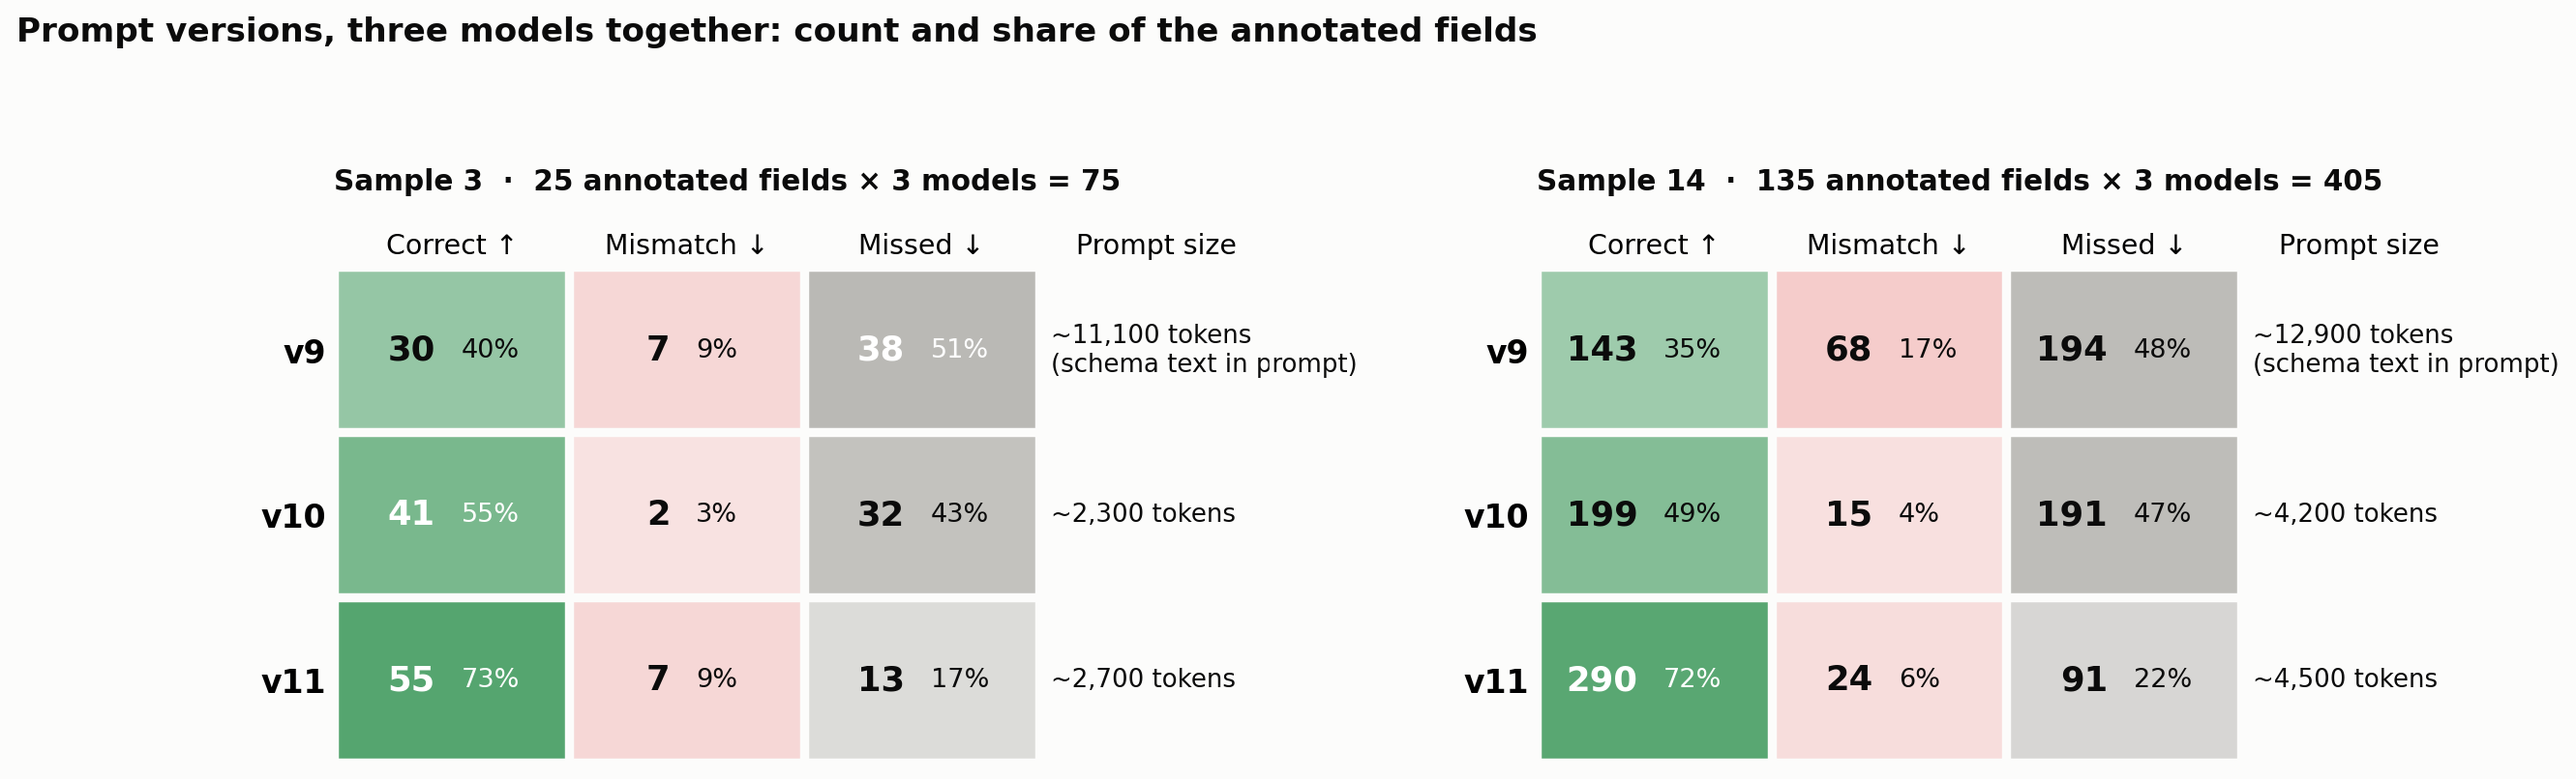
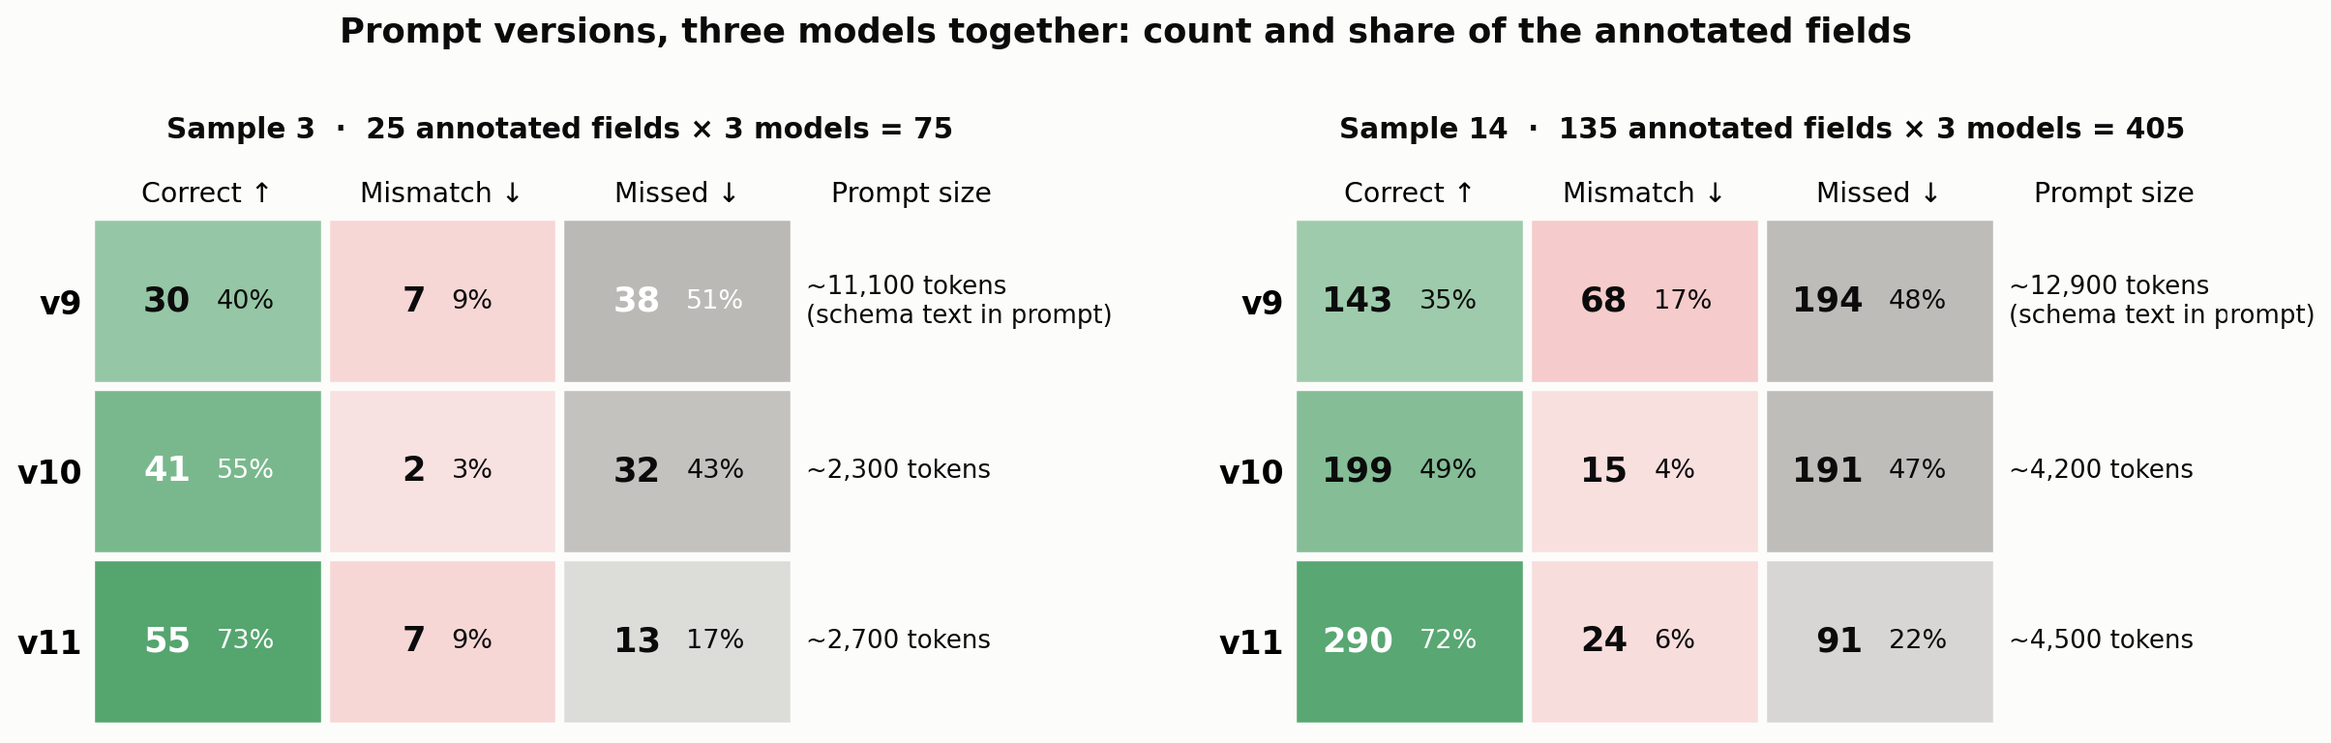
Center title and adjust subtitle formatting in RDA samples summary script

diff --git a/scripts/build/make_rda_samples_summary.py b/scripts/build/make_rda_samples_summary.py
@@ -98,7 +98,7 @@ def draw_panel(ax, totals, n_fields, versions, sample):
     for s in ax.spines.values():
         s.set_visible(False)
     ax.set_title(f"Sample {sample}  ·  {n_fields} annotated fields × {len(MODELS)} models = {n_total}",
-                 loc="left", fontsize=12.5, fontweight="bold", pad=34)
+                 loc="center", fontsize=12.5, fontweight="bold", pad=34)
 
 
 def main():
@@ -115,8 +115,8 @@ def main():
         print(f"sample {sample}: " + "; ".join(
             f"{v} {totals[v]['Correct']}/{totals[v]['Mismatch']}/{totals[v]['Missed']}" for v in args.versions))
     fig.suptitle("Prompt versions, three models together: count and share of the annotated fields",
-                 x=0.01, ha="left", fontsize=14.5, fontweight="bold", y=1.12)
-    fig.subplots_adjust(wspace=0.28, top=0.78)
+                 x=0.5, ha="center", fontsize=15, fontweight="bold", y=1.07)
+    fig.subplots_adjust(wspace=0.28, top=0.80)
     out = OUT_DIR / ("version_comparison_summary_samples" + "_".join(map(str, args.samples)) + ".png")
     fig.savefig(out, dpi=170, bbox_inches="tight", facecolor=SURFACE)
     print(f"saved -> {out}")
